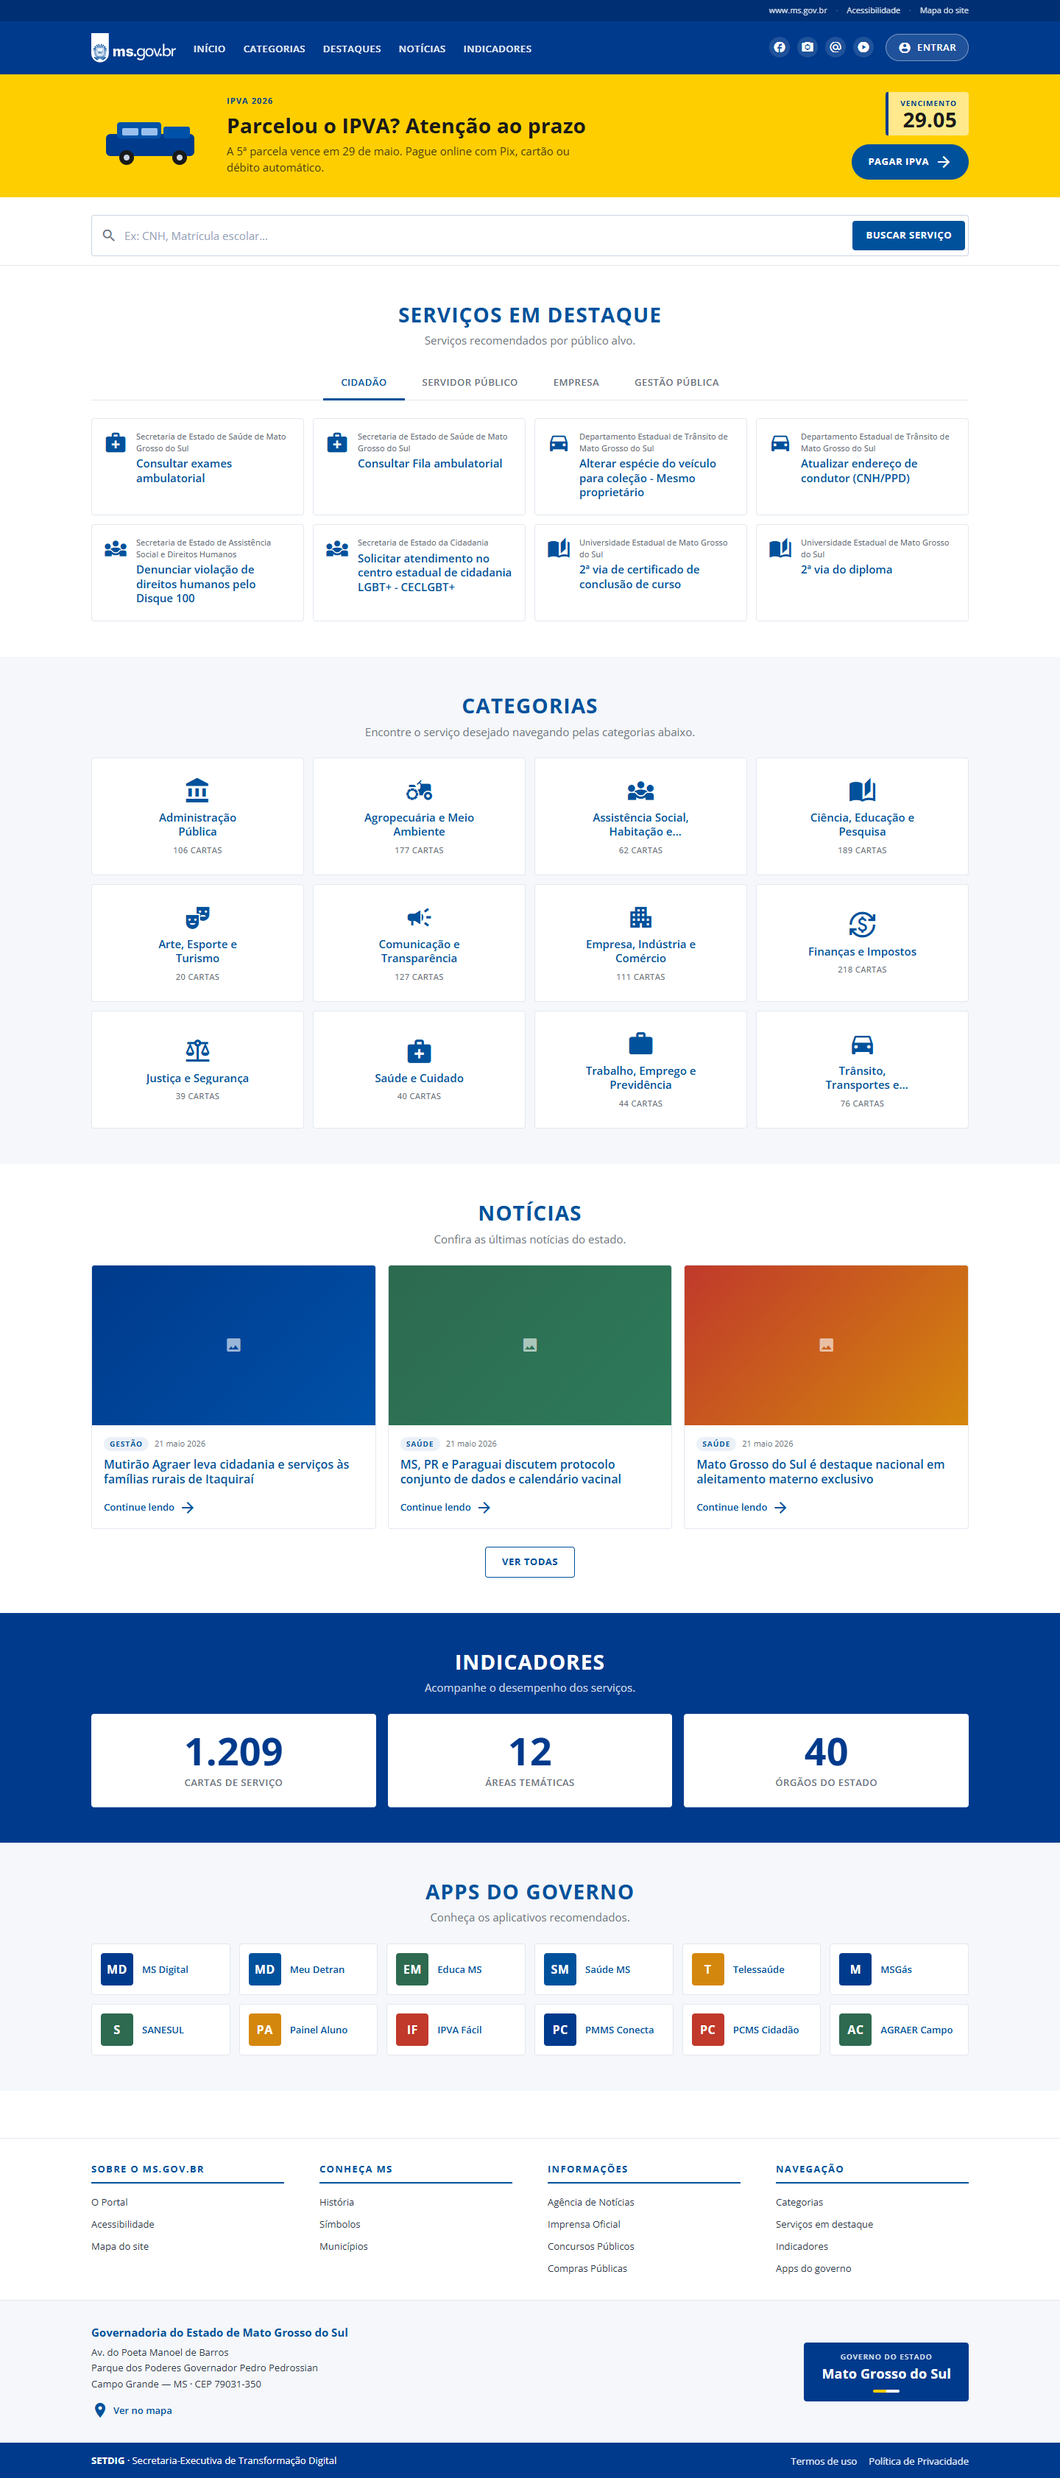
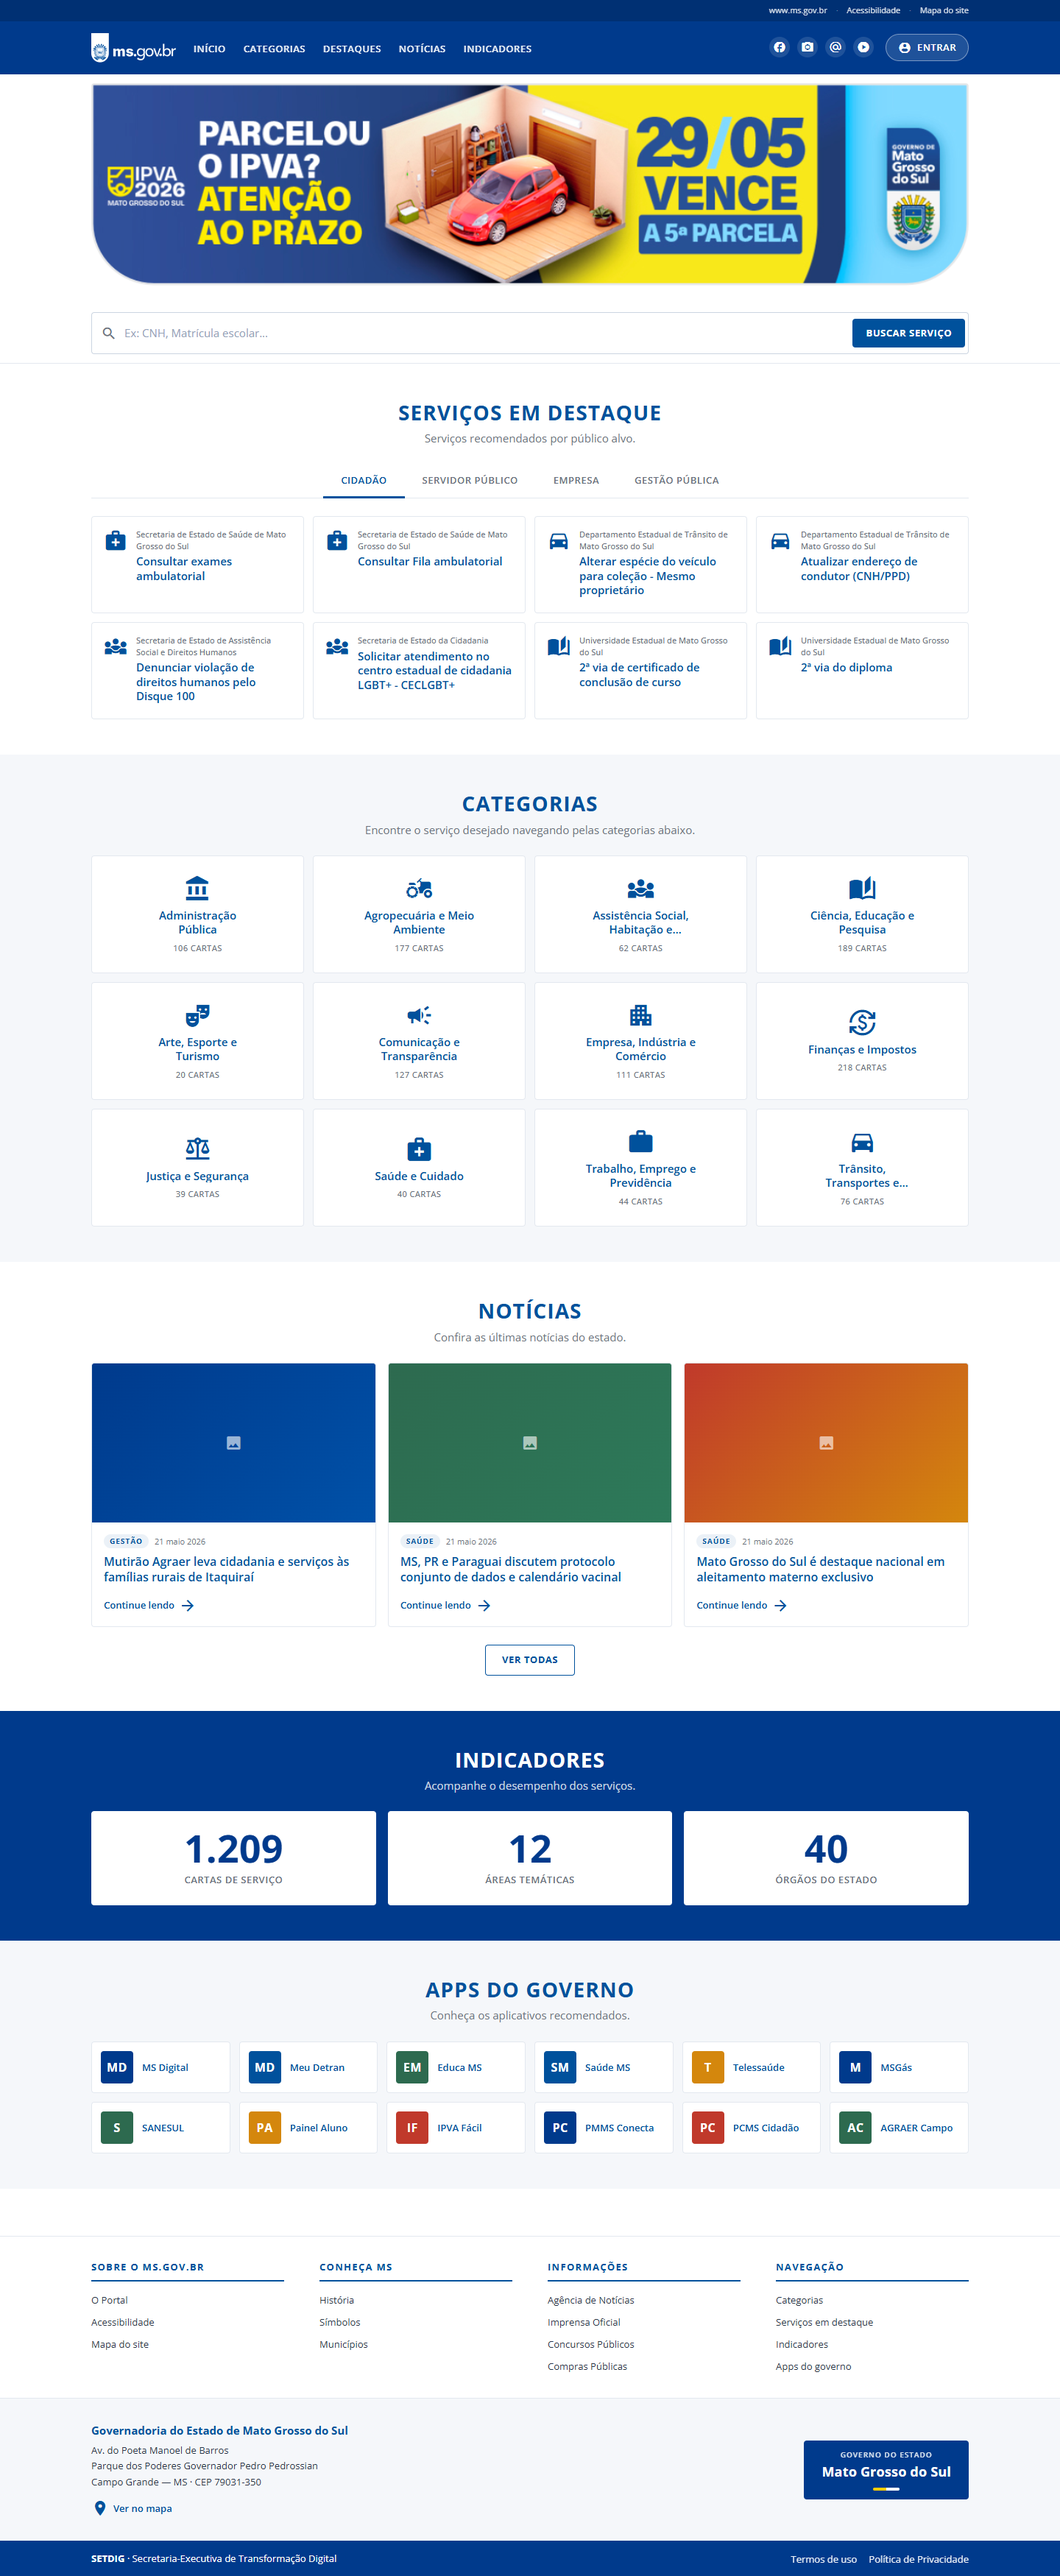
Refactor PromoBanner component and styles for improved structure and clarity

diff --git a/src/features/home/PromoBanner/PromoBanner.module.css b/src/features/home/PromoBanner/PromoBanner.module.css
@@ -1,120 +1,28 @@
 .banner {
-  background-color: var(--color-yellow);
-  color: var(--color-yellow-ink);
+  background-color: var(--color-bg);
+  padding-block: var(--space-3);
 }
 
-.inner {
+.link {
+  display: block;
   max-width: var(--max-width);
   margin-inline: auto;
-  padding: var(--space-5);
-  display: grid;
-  grid-template-columns: 1fr;
-  gap: var(--space-4);
-  align-items: center;
+  padding-inline: var(--space-5);
+  border-radius: var(--radius-sm);
+  transition: opacity var(--transition-fast);
 }
 
-@media (min-width: 768px) {
-  .inner { grid-template-columns: auto 1.5fr auto; gap: var(--space-5); }
-}
+.link:hover { opacity: 0.95; }
 
-.illustration {
-  display: flex;
-  align-items: center;
-  justify-content: center;
-}
+.link:focus-visible { outline-offset: 4px; }
 
-.illustrationSvg {
-  width: 160px;
-  height: 100px;
+.img {
+  width: 100%;
+  height: auto;
   display: block;
-}
-
-.content {
-  display: flex;
-  flex-direction: column;
-  gap: 6px;
-}
-
-.eyebrow {
-  font-size: var(--size-1);
-  font-weight: var(--weight-bold);
-  letter-spacing: var(--tracking-wider);
-  text-transform: uppercase;
-  color: var(--color-primary-dark);
-}
-
-.title {
-  font-size: clamp(20px, 2.4vw, 28px);
-  font-weight: var(--weight-bold);
-  color: var(--color-yellow-ink);
-  line-height: var(--leading-snug);
-  letter-spacing: 0.2px;
-}
-
-.description {
-  font-size: var(--size-3);
-  color: var(--color-yellow-ink);
-  opacity: 0.85;
-  max-width: 56ch;
-}
-
-.side {
-  display: flex;
-  flex-direction: row;
-  align-items: center;
-  gap: var(--space-4);
-  flex-wrap: wrap;
-}
-
-@media (min-width: 768px) {
-  .side { flex-direction: column; align-items: flex-end; gap: var(--space-3); }
-}
-
-.deadline {
-  display: inline-flex;
-  flex-direction: column;
-  align-items: flex-start;
-  padding: var(--space-2) var(--space-4);
-  background-color: rgba(255, 255, 255, 0.55);
-  border-left: 4px solid var(--color-primary-dark);
   border-radius: var(--radius-sm);
 }
 
-@media (min-width: 768px) {
-  .deadline { align-items: flex-end; }
+@media (max-width: 640px) {
+  .link { padding-inline: var(--space-4); }
 }
-
-.deadlineLabel {
-  font-size: 10px;
-  font-weight: var(--weight-bold);
-  letter-spacing: var(--tracking-wider);
-  text-transform: uppercase;
-  color: var(--color-primary-dark);
-}
-
-.deadlineValue {
-  font-size: var(--size-7);
-  font-weight: var(--weight-bold);
-  color: var(--color-yellow-ink);
-  letter-spacing: 0.3px;
-  line-height: 1;
-}
-
-.cta {
-  display: inline-flex;
-  align-items: center;
-  gap: 8px;
-  padding: 12px 22px;
-  background-color: var(--color-primary);
-  color: #ffffff;
-  font-size: var(--size-2);
-  font-weight: var(--weight-bold);
-  letter-spacing: var(--tracking-wide);
-  text-transform: uppercase;
-  border-radius: var(--radius-pill);
-  transition: background-color var(--transition-fast);
-}
-
-.cta:hover { background-color: var(--color-primary-ink); }
-
-.cta .material-icons { font-size: 18px; }

diff --git a/src/features/home/PromoBanner/PromoBanner.tsx b/src/features/home/PromoBanner/PromoBanner.tsx
@@ -1,58 +1,32 @@
 import styles from './PromoBanner.module.css';
 
 interface Props {
-  eyebrow: string;
-  title: string;
-  description: string;
-  ctaLabel: string;
+  imageUrl: string;
   ctaUrl: string;
-  deadline?: string;
+  alt?: string;
 }
 
 export function PromoBanner({
-  eyebrow,
-  title,
-  description,
-  ctaLabel,
+  imageUrl,
   ctaUrl,
-  deadline,
+  alt = 'Banner promocional',
 }: Props) {
   return (
-    <section className={styles.banner} aria-labelledby="promo-title">
-      <div className={styles.inner}>
-        <div className={styles.illustration} aria-hidden="true">
-          <svg viewBox="0 0 160 100" className={styles.illustrationSvg}>
-            <rect x="20" y="48" width="120" height="30" rx="6" fill="#003a8c" />
-            <rect x="35" y="32" width="60" height="22" rx="4" fill="#0051a8" />
-            <rect x="98" y="38" width="36" height="16" rx="3" fill="#0051a8" />
-            <circle cx="48" cy="80" r="10" fill="#1a1a1a" />
-            <circle cx="48" cy="80" r="4" fill="#cbd5e1" />
-            <circle cx="120" cy="80" r="10" fill="#1a1a1a" />
-            <circle cx="120" cy="80" r="4" fill="#cbd5e1" />
-            <rect x="42" y="40" width="22" height="10" rx="2" fill="#bfdbff" opacity="0.8" />
-            <rect x="68" y="40" width="22" height="10" rx="2" fill="#bfdbff" opacity="0.8" />
-          </svg>
-        </div>
-
-        <div className={styles.content}>
-          <p className={styles.eyebrow}>{eyebrow}</p>
-          <h2 id="promo-title" className={styles.title}>{title}</h2>
-          <p className={styles.description}>{description}</p>
-        </div>
-
-        <aside className={styles.side}>
-          {deadline ? (
-            <div className={styles.deadline}>
-              <span className={styles.deadlineLabel}>Vencimento</span>
-              <span className={styles.deadlineValue}>{deadline}</span>
-            </div>
-          ) : null}
-          <a href={ctaUrl} target="_blank" rel="noopener noreferrer" className={styles.cta}>
-            {ctaLabel}
-            <span className="material-icons" aria-hidden="true">arrow_forward</span>
-          </a>
-        </aside>
-      </div>
+    <section className={styles.banner} aria-label="Destaque">
+      <a
+        href={ctaUrl}
+        target="_blank"
+        rel="noopener noreferrer"
+        className={styles.link}
+      >
+        <img
+          src={imageUrl}
+          alt={alt}
+          className={styles.img}
+          loading="eager"
+          decoding="async"
+        />
+      </a>
     </section>
   );
 }

diff --git a/src/pages/HomePage/HomePage.tsx b/src/pages/HomePage/HomePage.tsx
@@ -43,12 +43,9 @@ export function HomePage() {
   return (
     <main className={styles.page}>
       <PromoBanner
-        eyebrow="IPVA 2026"
-        title="Parcelou o IPVA? Atenção ao prazo"
-        description="A 5ª parcela vence em 29 de maio. Pague online com Pix, cartão ou débito automático."
-        ctaLabel="Pagar IPVA"
+        imageUrl="https://noticias.ms.gov.br/uploads/midias/7b4e0e834ce24be391415f426c051424.png"
         ctaUrl="https://www.sefaz.ms.gov.br/ipva/"
-        deadline="29.05"
+        alt="IPVA 2026 — campanha oficial do Governo do Estado de Mato Grosso do Sul"
       />
 
       <SearchBar />
